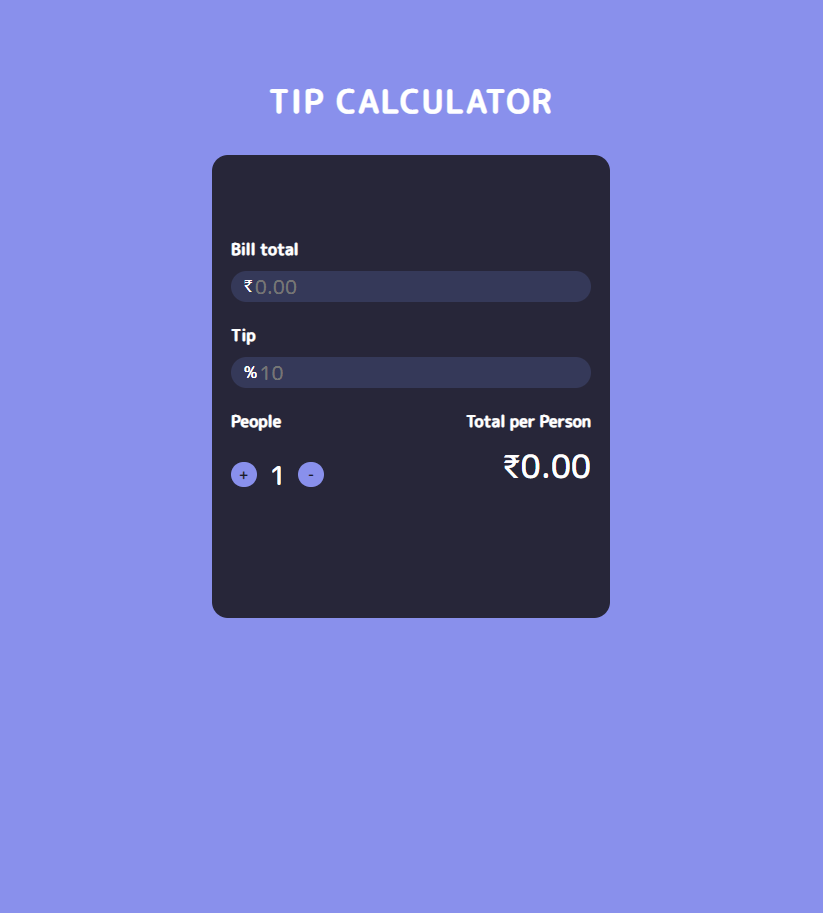
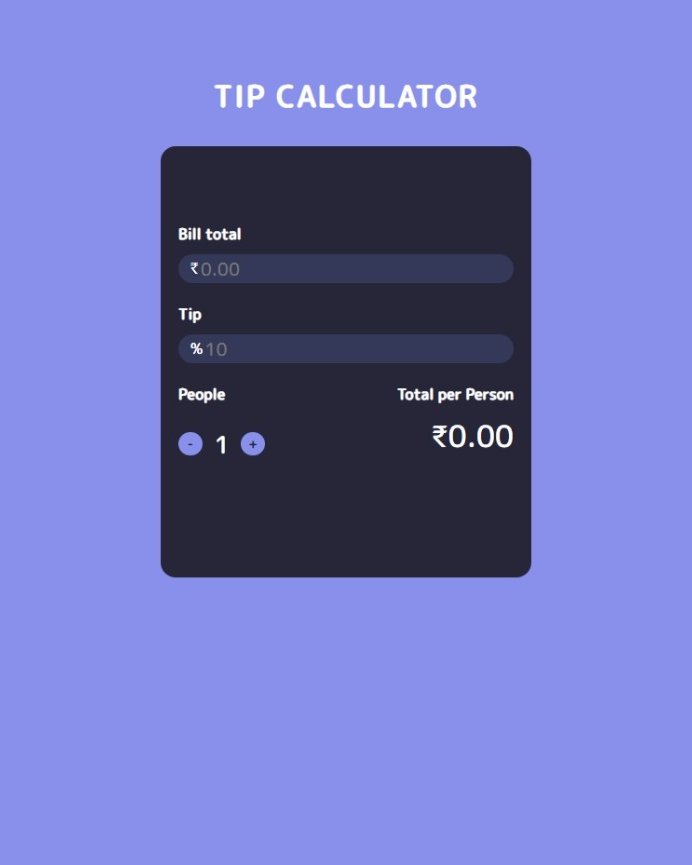
updated code

Changed region(s): [[0.2124, 0.1561, 0.789, 0.6867], [0.3035, 0.0936, 0.698, 0.1249]]

diff --git a/index.html b/index.html
@@ -37,6 +37,7 @@
           <input
             onkeyup="calculateBill()"
             type="text"
+            class="billTotalInput"
             id="billTotalInput"
             placeholder="0.00"
           />
@@ -50,25 +51,26 @@
           <input
             onkeyup="calculateBill()"
             type="text"
+            class="tipInput"
             id="tipInput"
             placeholder="10"
           />
         </div>
       </div>
 
-      <div class="container" id="bottom">
+      <div class="container bottom" id="bottom">
         <div class="splitContainer">
           <div class="title">People</div>
           <div class="controls">
             <span class="buttonContainer">
-              <button class="splitButton" onclick="increasePeople()">
-                <span class="buttonText">+</span>
+              <button class="splitButton" onclick="decreasePeople()">
+                <span class="buttonText">-</span>
               </button>
             </span>
             <span class="splitAmount" id="numberOfPeople">1</span>
             <span class="buttonContainer">
-              <button class="splitButton" onclick="decreasePeople()">
-                <span class="buttonText">-</span>
+              <button class="splitButton" onclick="increasePeople()">
+                <span class="buttonText">+</span>
               </button>
             </span>
           </div>

diff --git a/src/css/styles.css b/src/css/styles.css
@@ -45,8 +45,8 @@ h1 {
   align-items: center;
 }
 
-#billTotalInput,
-#tipInput {
+.billTotalInput,
+.tipInput {
   font-size: 1.2rem;
   background: none;
   border: none;
@@ -89,7 +89,7 @@ h1 {
   margin: 0.8rem;
 }
 
-#bottom {
+.bottom {
   display: flex;
   justify-content: space-between;
 }
